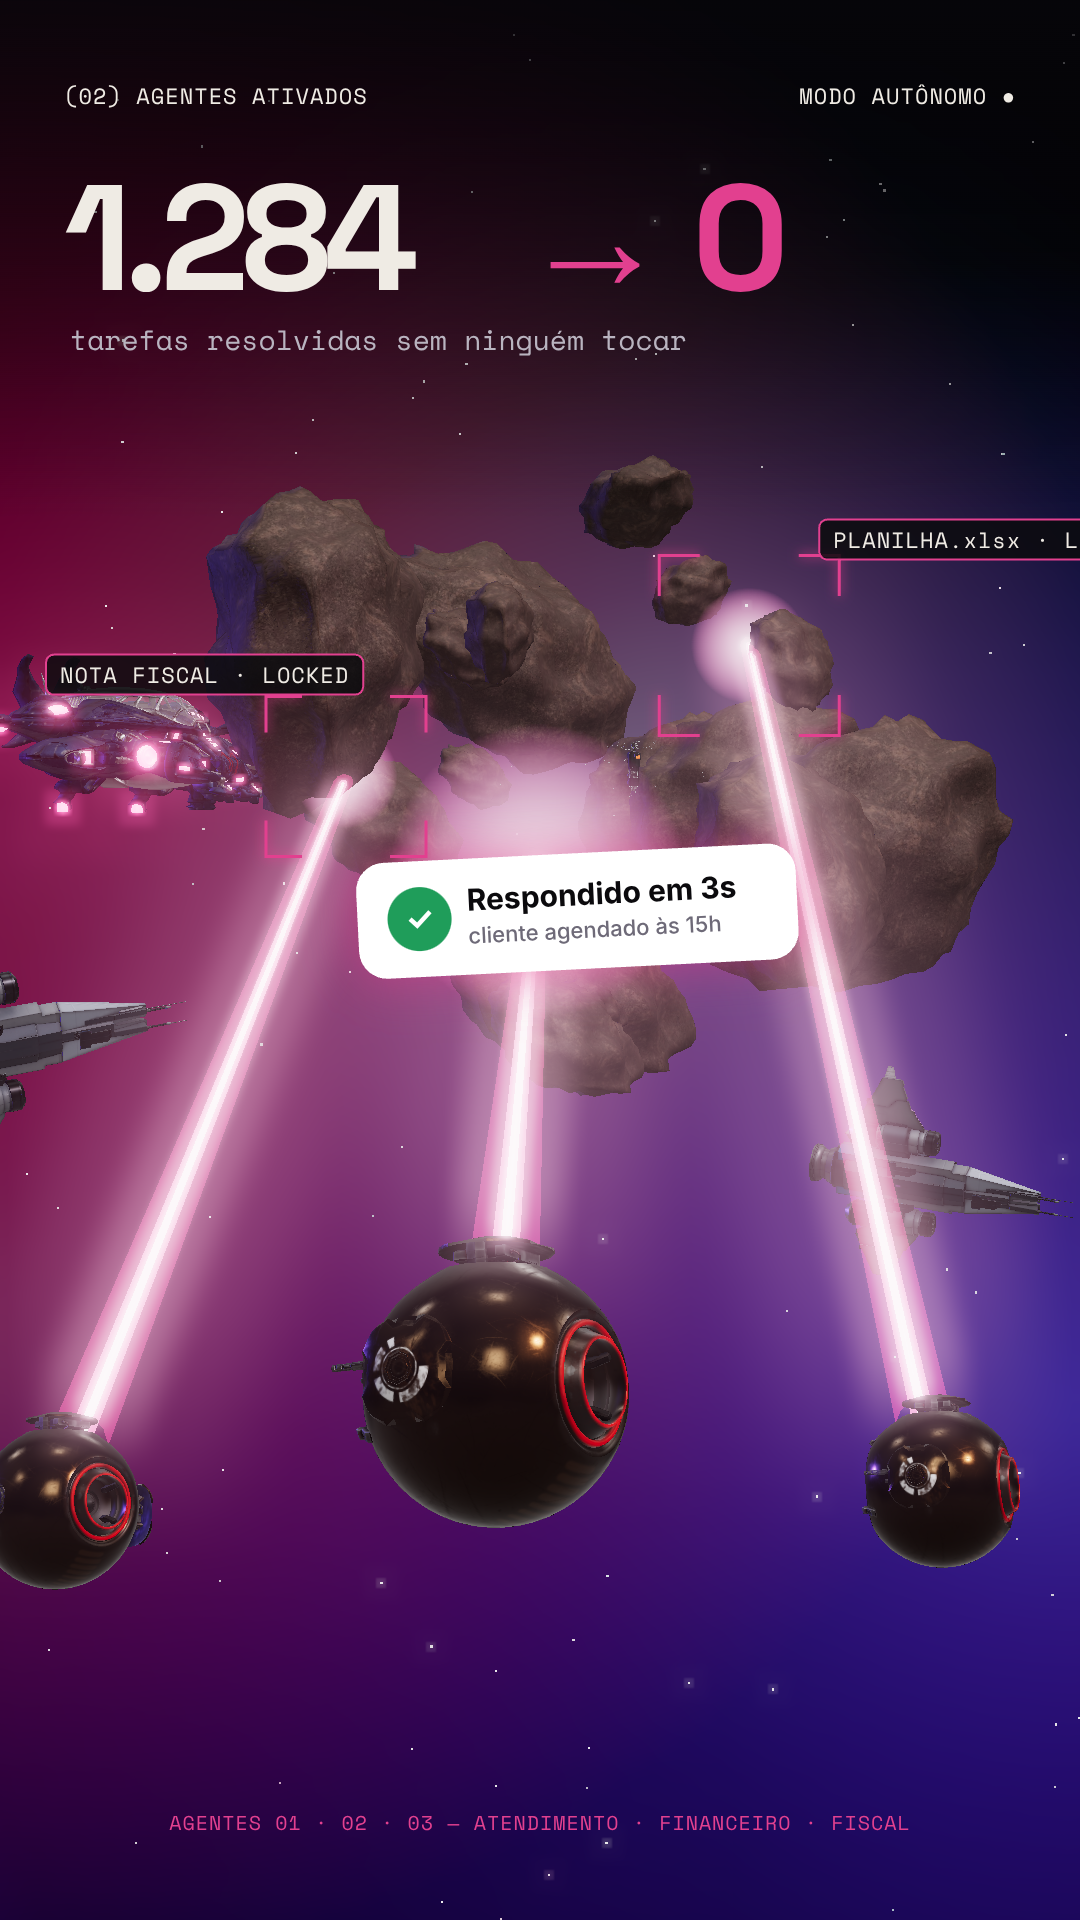
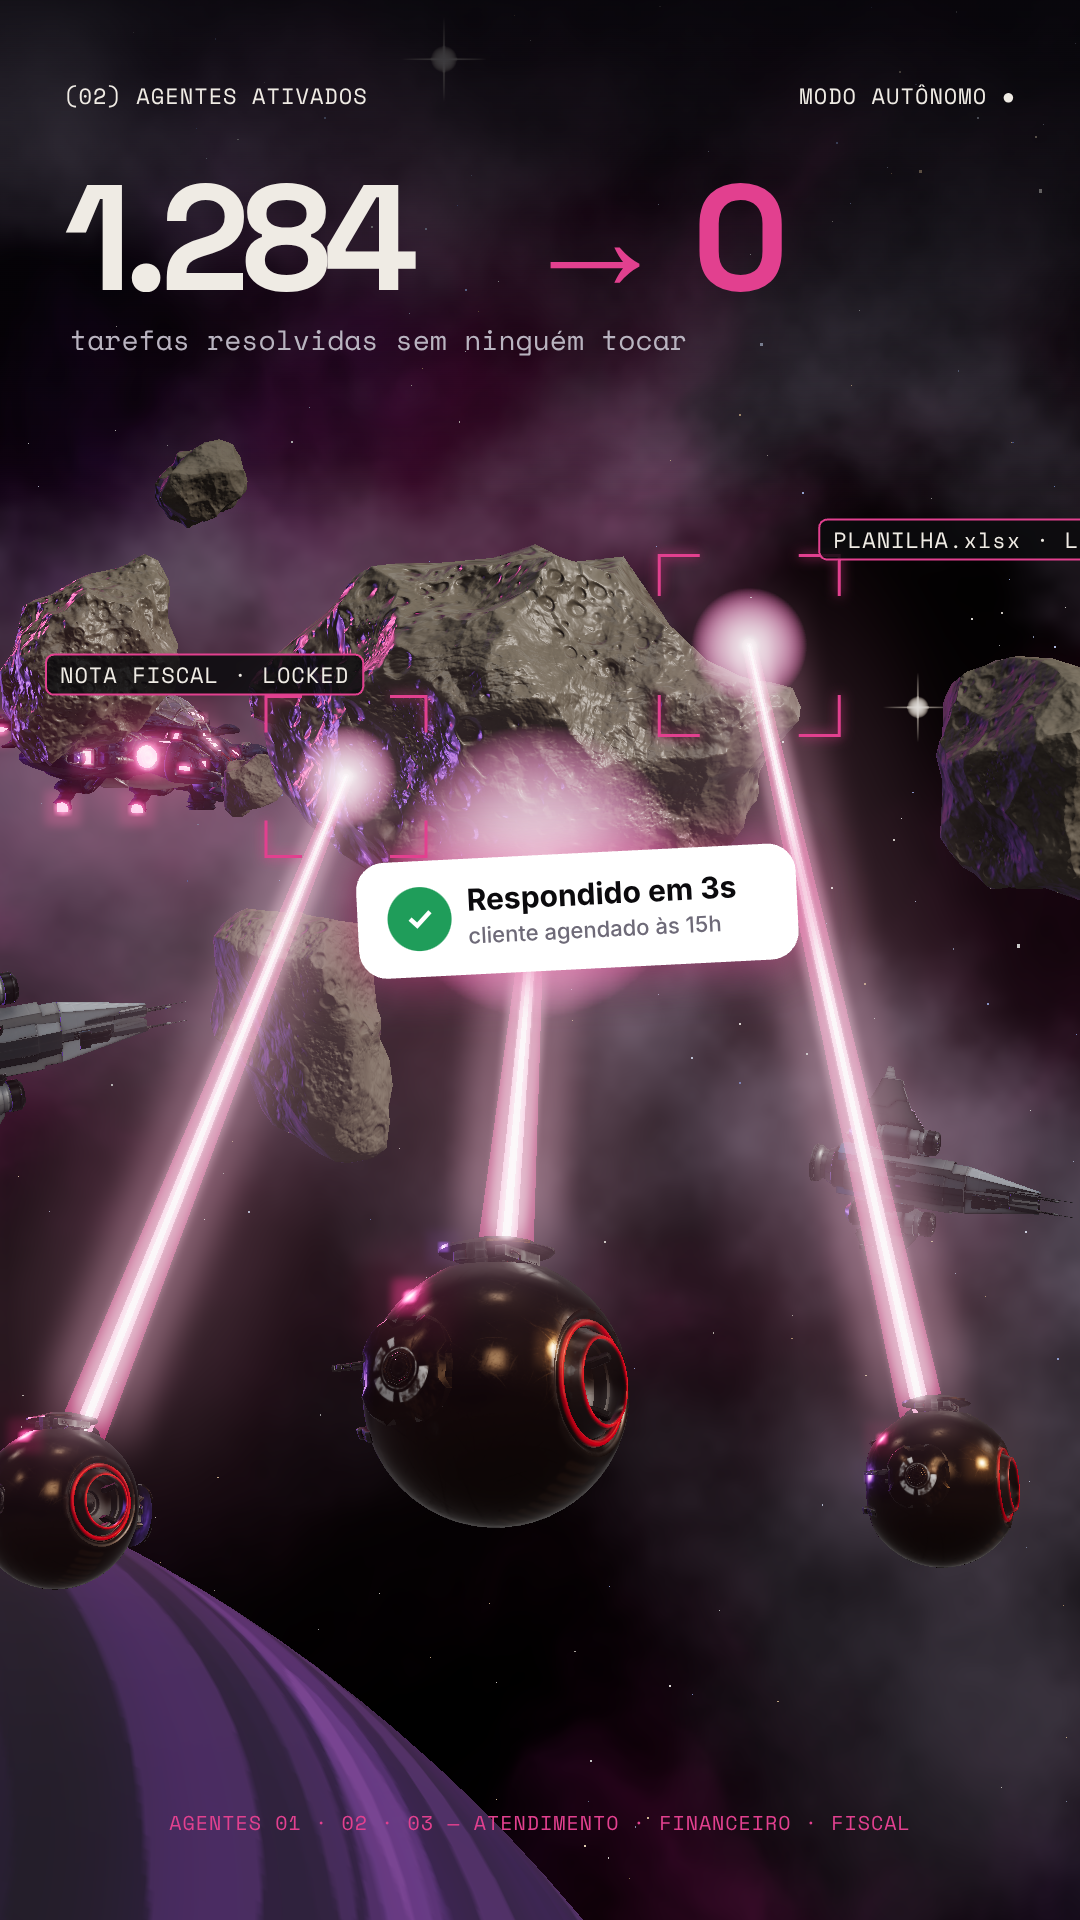
Motion: realistic space (procedural nebula, stars, planet) + textured asteroids
Claude-Session: https://claude.ai/code/session_01WbrossFdNjnCy17xVXijww

diff --git a/motion/robots/scene.html b/motion/robots/scene.html
@@ -21,18 +21,25 @@ const glc = document.getElementById('gl'), ov = document.getElementById('ov').ge
 const r = new THREE.WebGLRenderer({ canvas: glc, antialias: true, preserveDrawingBuffer: true })
 r.setPixelRatio(1); r.setSize(W, H, false); r.toneMapping = THREE.ACESFilmicToneMapping; r.toneMappingExposure = 1.05; r.outputColorSpace = THREE.SRGBColorSpace
 const env = new THREE.PMREMGenerator(r).fromScene(new RoomEnvironment(), 0.04).texture
-const scene = new THREE.Scene(); scene.environment = env; scene.environmentIntensity = 0.45
+const scene = new THREE.Scene(); scene.environment = env; scene.environmentIntensity = 0.25
 const cam = new THREE.PerspectiveCamera(38, W / H, 0.1, 2000)
 const composer = new EffectComposer(r); composer.setPixelRatio(1); composer.setSize(W, H)
 composer.addPass(new RenderPass(scene, cam)); const bloom = new UnrealBloomPass(new THREE.Vector2(W, H), 0.55, 0.5, 0.82); composer.addPass(bloom); composer.addPass(new OutputPass())
-const key = new THREE.DirectionalLight('#ffe6f2', 2.4); key.position.set(6, 8, 6); scene.add(key)
-const rim = new THREE.DirectionalLight('#7b5cff', 2.0); rim.position.set(-8, 2, -6); scene.add(rim)
-scene.add(new THREE.AmbientLight('#ffffff', 0.15))
-const load = (f) => new GLTFLoader().loadAsync('models/' + f)
+const key = new THREE.DirectionalLight('#fff4ea', 3.4); key.position.set(9, 6, 4); scene.add(key)
+const rim = new THREE.DirectionalLight('#a36bff', 1.6); rim.position.set(-8, 1, -8); scene.add(rim)
+const nebLight = new THREE.DirectionalLight('#E2408F', 0.6); nebLight.position.set(-4, 4, -10); scene.add(nebLight)
+scene.add(new THREE.AmbientLight('#ffffff', 0.04))
+// converte materiais antigos KHR_materials_pbrSpecularGlossiness (ex.: asteroides) para PBR padrão
+class SpecGloss { constructor(parser) { this.parser = parser; this.name = 'KHR_materials_pbrSpecularGlossiness' }
+  extendMaterialParams(i, params) { const ext = this.parser.json.materials[i].extensions?.[this.name]; if (!ext) return Promise.resolve()
+    if (ext.diffuseFactor) params.color = new THREE.Color().setRGB(ext.diffuseFactor[0], ext.diffuseFactor[1], ext.diffuseFactor[2], THREE.LinearSRGBColorSpace)
+    params.roughness = 1 - (ext.glossinessFactor ?? 1) * 0.55; params.metalness = 0
+    return ext.diffuseTexture ? this.parser.assignTexture(params, 'map', ext.diffuseTexture, THREE.SRGBColorSpace) : Promise.resolve() } }
+const load = (f) => { const l = new GLTFLoader(); l.register((p) => new SpecGloss(p)); return l.loadAsync('models/' + f) }
 const fit = (obj, size) => { const b = new THREE.Box3().setFromObject(obj), s = b.getSize(new THREE.Vector3()), k = size / Math.max(s.x, s.y, s.z), c = b.getCenter(new THREE.Vector3()); const g = new THREE.Group(); obj.position.sub(c); g.add(obj); g.scale.setScalar(k); return g }
 const magEyes = (root) => root.traverse((o) => { if (o.isMesh) { const ms = Array.isArray(o.material) ? o.material : [o.material]; ms.forEach((m) => { if (m.emissive && (m.emissive.r + m.emissive.g + m.emissive.b) > 0.05) { m.emissive.set(MAG); m.emissiveIntensity = 4 } }) } })
 function laser(a, b) { const d = new THREE.Vector3().subVectors(b, a), L = d.length(); const grp = new THREE.Group()
-  ;[[0.018, '#ffffff', 1], [0.045, '#ff7fbf', 0.8], [0.11, MAG, 0.25]].forEach(([rad, col, op]) => { const m = new THREE.Mesh(new THREE.CylinderGeometry(rad, rad, L, 12, 1, true), new THREE.MeshBasicMaterial({ color: new THREE.Color(col).multiplyScalar(1.6), transparent: true, opacity: op, blending: THREE.AdditiveBlending, depthWrite: false, toneMapped: false })); grp.add(m) })
+  ;[[0.014, '#ffffff', 1], [0.035, '#ff7fbf', 0.75], [0.09, MAG, 0.22]].forEach(([rad, col, op]) => { const m = new THREE.Mesh(new THREE.CylinderGeometry(rad, rad, L, 12, 1, true), new THREE.MeshBasicMaterial({ color: new THREE.Color(col).multiplyScalar(1.6), transparent: true, opacity: op, blending: THREE.AdditiveBlending, depthWrite: false, toneMapped: false })); grp.add(m) })
   grp.position.copy(a).addScaledVector(d, 0.5); grp.quaternion.setFromUnitVectors(new THREE.Vector3(0, 1, 0), d.normalize()); scene.add(grp) }
 const glow = (() => { const cv = document.createElement('canvas'); cv.width = cv.height = 128; const x = cv.getContext('2d'), g = x.createRadialGradient(64, 64, 0, 64, 64, 64); g.addColorStop(0, 'rgba(255,255,255,1)'); g.addColorStop(0.2, 'rgba(255,150,200,.9)'); g.addColorStop(1, 'rgba(226,64,143,0)'); x.fillStyle = g; x.fillRect(0, 0, 128, 128); return new THREE.CanvasTexture(cv) })()
 function flash(p, s) { const sp = new THREE.Sprite(new THREE.SpriteMaterial({ map: glow, blending: THREE.AdditiveBlending, depthWrite: false, toneMapped: false })); sp.position.copy(p); sp.scale.setScalar(s); scene.add(sp) }
@@ -44,16 +51,64 @@ function card(x, y, title, sub, rot) { ov.save(); ov.translate(x, y); ov.rotate(
 
 window.ready = (async () => {
   await Promise.all([`700 100px ${G}`, `500 100px ${G}`, `400 20px ${M}`].map((f) => document.fonts.load(f)))
-  const [sky, rocks, drone, cb1, mother] = await Promise.all(['alien_space_nebula_2_skybox.glb', 'space_station.glb', 'scifi_drone.glb', 'spaceship_-_cb1.glb', 'cool_alien_spaceship_by_jungle_jim.glb'].map(load))
-  // céu: estrelas reais em 3D (nítidas) + nebulosas como luz difusa, nas cores da marca
-  scene.background = new THREE.Color('#05040A')
-  const rn = (n) => { const q = Math.sin(n * 127.1 + 311.7) * 43758.5453; return q - Math.floor(q) }
-  const sp = [], sc = []
-  for (let i = 0; i < 6000; i++) { const u = rn(i * 3.1) * 2 - 1, th = rn(i * 7.3) * Math.PI * 2, R = 400, q = Math.sqrt(1 - u * u); sp.push(Math.cos(th) * q * R, u * R, Math.sin(th) * q * R); const k = rn(i * 2.2), cc = new THREE.Color(k < 0.08 ? '#ffd1e6' : k < 0.16 ? '#c9f5ef' : '#ffffff').multiplyScalar(0.35 + rn(i * 5.1) * 0.9); sc.push(cc.r, cc.g, cc.b) }
-  const sg = new THREE.BufferGeometry(); sg.setAttribute('position', new THREE.Float32BufferAttribute(sp, 3)); sg.setAttribute('color', new THREE.Float32BufferAttribute(sc, 3))
-  scene.add(new THREE.Points(sg, new THREE.PointsMaterial({ size: 2.2, sizeAttenuation: false, vertexColors: true, depthWrite: false, toneMapped: false })))
-  ;[[-30, 25, -160, 140, '#E2408F', 0.22], [40, -10, -180, 160, '#7B5CFF', 0.25], [10, 40, -200, 120, '#3DD9C5', 0.1], [-50, -40, -170, 130, '#5A28A0', 0.25]].forEach(([x, y, z, sz, col, op]) => { const n = new THREE.Sprite(new THREE.SpriteMaterial({ map: glow, color: col, transparent: true, opacity: op, blending: THREE.AdditiveBlending, depthWrite: false })); n.position.set(x, y, z); n.scale.setScalar(sz); scene.add(n) })
-  const ast = fit(rocks.scene, 11); ast.position.set(1.2, 5.2, -20); ast.rotation.set(0.3, 0.8, 0); scene.add(ast)
+  const [sky, rocks, drone, cb1, mother] = await Promise.all(['alien_space_nebula_2_skybox.glb', 'wandering_asteroids.glb', 'scifi_drone.glb', 'spaceship_-_cb1.glb', 'cool_alien_spaceship_by_jungle_jim.glb'].map(load))
+  // ===== céu realista: nebulosa procedural (filamentos + poeira escura), faixa galáctica, estrelas e planeta =====
+  scene.background = new THREE.Color('#020205')
+  const skyMat = new THREE.ShaderMaterial({ side: THREE.BackSide, depthWrite: false, uniforms: {},
+    vertexShader: `varying vec3 vDir; void main(){ vDir = normalize(position); gl_Position = projectionMatrix * modelViewMatrix * vec4(position,1.0); }`,
+    fragmentShader: `varying vec3 vDir;
+      float h(vec3 p){ p = fract(p*0.3183099+.1); p *= 17.0; return fract(p.x*p.y*p.z*(p.x+p.y+p.z)); }
+      float n(vec3 x){ vec3 i = floor(x), f = fract(x); f = f*f*(3.0-2.0*f);
+        return mix(mix(mix(h(i),h(i+vec3(1,0,0)),f.x), mix(h(i+vec3(0,1,0)),h(i+vec3(1,1,0)),f.x),f.y), mix(mix(h(i+vec3(0,0,1)),h(i+vec3(1,0,1)),f.x), mix(h(i+vec3(0,1,1)),h(i+vec3(1,1,1)),f.x),f.y), f.z); }
+      float fbm(vec3 p){ float a = .5, s = 0.; for(int i=0;i<6;i++){ s += a*n(p); p = p*2.03 + 7.1; a *= .5; } return s; }
+      void main(){
+        vec3 d = normalize(vDir);
+        // nebulosa concentrada atrás dos asteroides, com distorção de domínio (filamentos)
+        vec3 c0 = normalize(vec3(-0.15, 0.35, -1.0));
+        float focus = smoothstep(0.35, 1.0, dot(d, c0));
+        vec3 q = d*3.2; vec3 w = vec3(fbm(q+1.7), fbm(q+9.2), fbm(q+4.4));
+        float neb = fbm(q*1.6 + w*2.4);
+        float fil = pow(clamp(neb*1.25-0.35, 0.0, 1.0), 2.2);
+        float dust = smoothstep(0.45, 0.75, fbm(q*2.4 + w*3.0 + 3.0));
+        vec3 col = mix(vec3(0.20,0.03,0.12), vec3(0.42,0.05,0.24), fil);           // magenta profundo
+        col = mix(col, vec3(0.10,0.06,0.30), smoothstep(0.4,0.8,w.x));            // violeta
+        col += vec3(0.02,0.12,0.13) * smoothstep(0.55,0.9,w.y) * fil;              // toque teal
+        vec3 nebula = col * fil * focus * (1.0 - dust*0.85) * 1.6;
+        // faixa galáctica (Via Láctea) em diagonal
+        vec3 bn = normalize(vec3(0.55, 0.8, 0.2));
+        float band = exp(-pow(dot(d, bn)/0.22, 2.0));
+        float bd = fbm(d*6.0+2.0);
+        vec3 milky = vec3(0.16,0.14,0.18) * band * smoothstep(0.35,0.75,bd) * (1.0 - smoothstep(0.5,0.8,fbm(d*9.0))*0.8);
+        gl_FragColor = vec4(nebula + milky, 1.0);
+      }` })
+  scene.add(new THREE.Mesh(new THREE.SphereGeometry(900, 64, 32), skyMat))
+  const rn = (k) => { const q = Math.sin(k * 127.1 + 311.7) * 43758.5453; return q - Math.floor(q) }
+  // estrelas: três camadas de tamanho/brilho, cores reais (azuladas, brancas, amareladas)
+  const starCols = ['#9bb0ff', '#cad7ff', '#ffffff', '#fff4e8', '#ffd2a1']
+  ;[[9000, 1.2, 0.55], [1800, 2.0, 0.9], [220, 3.2, 1.0]].forEach(([N, size, br], L) => {
+    const sp = [], sc = []
+    for (let i = 0; i < N; i++) { const k = i + L * 1e5, u = rn(k * 3.1) * 2 - 1, th = rn(k * 7.3) * Math.PI * 2, R = 800, qq = Math.sqrt(1 - u * u); sp.push(Math.cos(th) * qq * R, u * R, Math.sin(th) * qq * R); const cc = new THREE.Color(starCols[Math.floor(rn(k * 2.2) * 5)]).multiplyScalar(br * (0.35 + rn(k * 5.1) * 0.65)); sc.push(cc.r, cc.g, cc.b) }
+    const sg = new THREE.BufferGeometry(); sg.setAttribute('position', new THREE.Float32BufferAttribute(sp, 3)); sg.setAttribute('color', new THREE.Float32BufferAttribute(sc, 3))
+    scene.add(new THREE.Points(sg, new THREE.PointsMaterial({ size, sizeAttenuation: false, vertexColors: true, depthWrite: false, toneMapped: false })))
+  })
+  // estrelas brilhantes com difração (cruz) — o "selo" de foto de telescópio
+  const spike = (() => { const cv = document.createElement('canvas'); cv.width = cv.height = 256; const x = cv.getContext('2d'); const g = x.createRadialGradient(128, 128, 0, 128, 128, 40); g.addColorStop(0, 'rgba(255,255,255,1)'); g.addColorStop(1, 'rgba(255,255,255,0)'); x.fillStyle = g; x.fillRect(0, 0, 256, 256)
+    ;[[1, 0], [0, 1]].forEach(([a, b]) => { const lg = x.createLinearGradient(128 - a * 128, 128 - b * 128, 128 + a * 128, 128 + b * 128); lg.addColorStop(0, 'rgba(255,255,255,0)'); lg.addColorStop(0.5, 'rgba(255,255,255,.9)'); lg.addColorStop(1, 'rgba(255,255,255,0)'); x.fillStyle = lg; if (a) x.fillRect(0, 126, 256, 4); else x.fillRect(126, 0, 4, 256) }); return new THREE.CanvasTexture(cv) })()
+  for (let i = 0; i < 14; i++) { const u = rn(i * 9.7) * 1.4 - 0.4, th = -Math.PI / 2 + (rn(i * 4.3) - 0.5) * 1.6, R = 600, qq = Math.sqrt(1 - u * u); const s2 = new THREE.Sprite(new THREE.SpriteMaterial({ map: spike, color: starCols[i % 5], blending: THREE.AdditiveBlending, depthWrite: false, toneMapped: false, transparent: true, opacity: 0.85 })); s2.position.set(Math.cos(th) * qq * R, u * R, Math.sin(th) * qq * R); s2.scale.setScalar(10 + rn(i * 3.3) * 18); scene.add(s2) }
+  // planeta gasoso com atmosfera (terminador iluminado pelo sol)
+  const pc = document.createElement('canvas'); pc.width = 2048; pc.height = 1024; const px = pc.getContext('2d')
+  for (let y = 0; y < 1024; y++) { const t = y / 1024, b = Math.sin(t * 40 + Math.sin(t * 9) * 3) * 0.5 + 0.5, b2 = Math.sin(t * 130) * 0.5 + 0.5; const r_ = 18 + b * 26 + b2 * 6, g_ = 12 + b * 12, bl = 30 + b * 34 + b2 * 10; px.fillStyle = `rgb(${r_|0},${g_|0},${bl|0})`; px.fillRect(0, y, 2048, 1) }
+  px.globalAlpha = 0.25; for (let i = 0; i < 400; i++) { px.fillStyle = rn(i) < 0.5 ? '#2a1640' : '#7a4a9a'; px.beginPath(); px.ellipse(rn(i * 3) * 2048, rn(i * 5) * 1024, 40 + rn(i * 7) * 220, 4 + rn(i * 11) * 10, 0, 0, 7); px.fill() }
+  const ptex = new THREE.CanvasTexture(pc); ptex.colorSpace = THREE.SRGBColorSpace
+  const planet = new THREE.Mesh(new THREE.SphereGeometry(200, 128, 64), new THREE.MeshStandardMaterial({ map: ptex, roughness: 0.95, metalness: 0 }))
+  planet.position.set(-140, -212, -330); planet.rotation.set(0.35, 0.6, 0.25); scene.add(planet)
+  const atm = new THREE.Mesh(new THREE.SphereGeometry(208, 96, 48), new THREE.ShaderMaterial({ transparent: true, blending: THREE.AdditiveBlending, depthWrite: false, side: THREE.BackSide,
+    uniforms: { sun: { value: new THREE.Vector3(9, 6, 4).normalize() } },
+    vertexShader: `varying vec3 vN; varying vec3 vW; void main(){ vN = normalize(mat3(modelMatrix)*normal); vec4 w = modelMatrix*vec4(position,1.0); vW = w.xyz; gl_Position = projectionMatrix*viewMatrix*w; }`,
+    fragmentShader: `uniform vec3 sun; varying vec3 vN; varying vec3 vW; void main(){ vec3 v = normalize(cameraPosition - vW); float rim = pow(1.0 - abs(dot(v, -vN)), 3.0); float lit = clamp(dot(-vN, sun)*0.7+0.4, 0.0, 1.0); gl_FragColor = vec4(vec3(0.45,0.35,1.0)*rim*lit*1.6, rim*lit); }` }))
+  atm.position.copy(planet.position); scene.add(atm)
+  const ast = fit(rocks.scene, 13); ast.position.set(0.8, 5.0, -19); ast.rotation.set(0.2, 0.5, 0.1); scene.add(ast)
+  const ast2 = fit(SkeletonUtils.clone(rocks.scene), 7); ast2.position.set(-6, 9, -30); ast2.rotation.set(1.2, 2.0, 0.4); scene.add(ast2)
   const ms = fit(mother.scene, 6); ms.position.set(-6.5, 8.5, -34); ms.rotation.set(0.15, 0.9, 0); magEyes(ms); scene.add(ms)
   const dpos = [[0, -1.5, 7.5, 1.0], [-1.55, -2.0, 5.0, 0.8], [1.6, -1.95, 4.8, 0.8]], drones = []
   dpos.forEach(([x, y, z, sz]) => { const d = fit(SkeletonUtils.clone(drone.scene), sz); magEyes(d); d.position.set(x, y, z); d.rotation.set(-0.2, Math.PI * 0.82 + x * 0.12, 0); scene.add(d); drones.push(d) })
